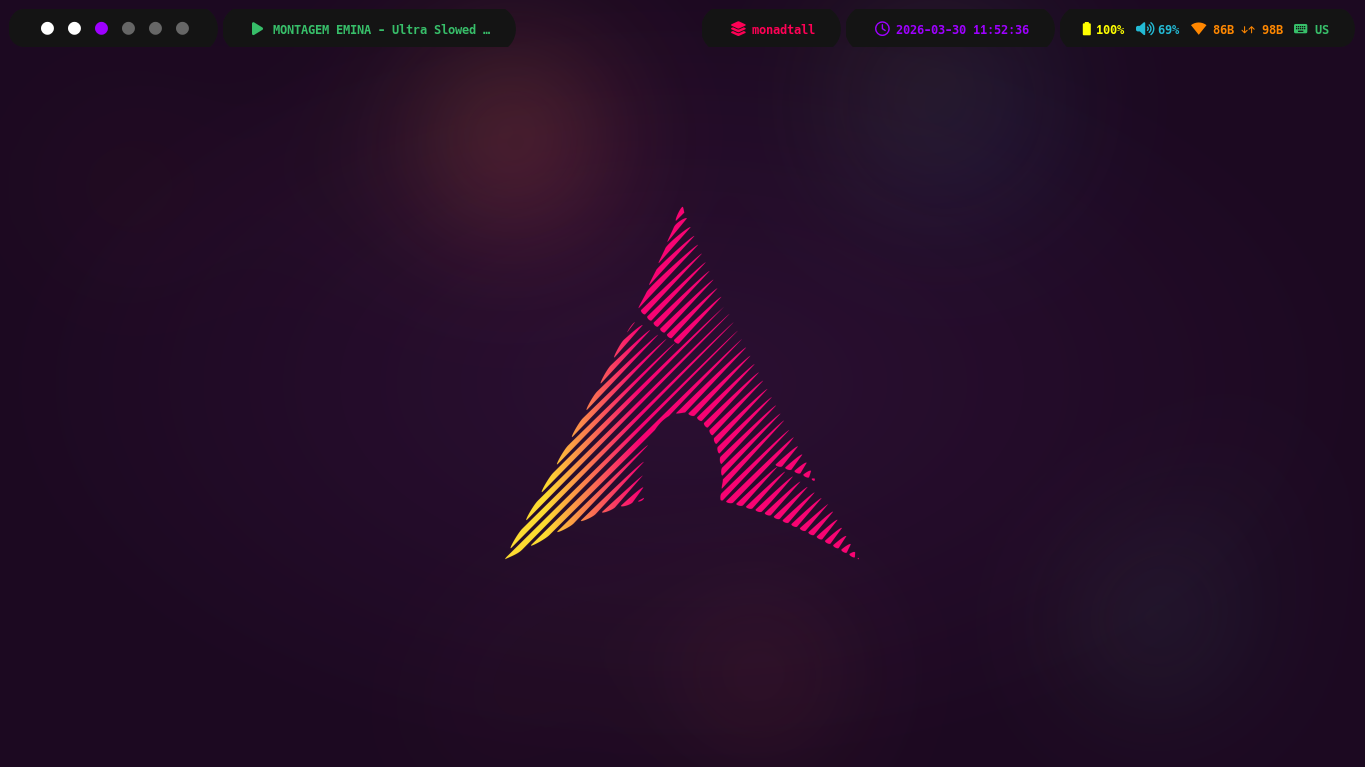
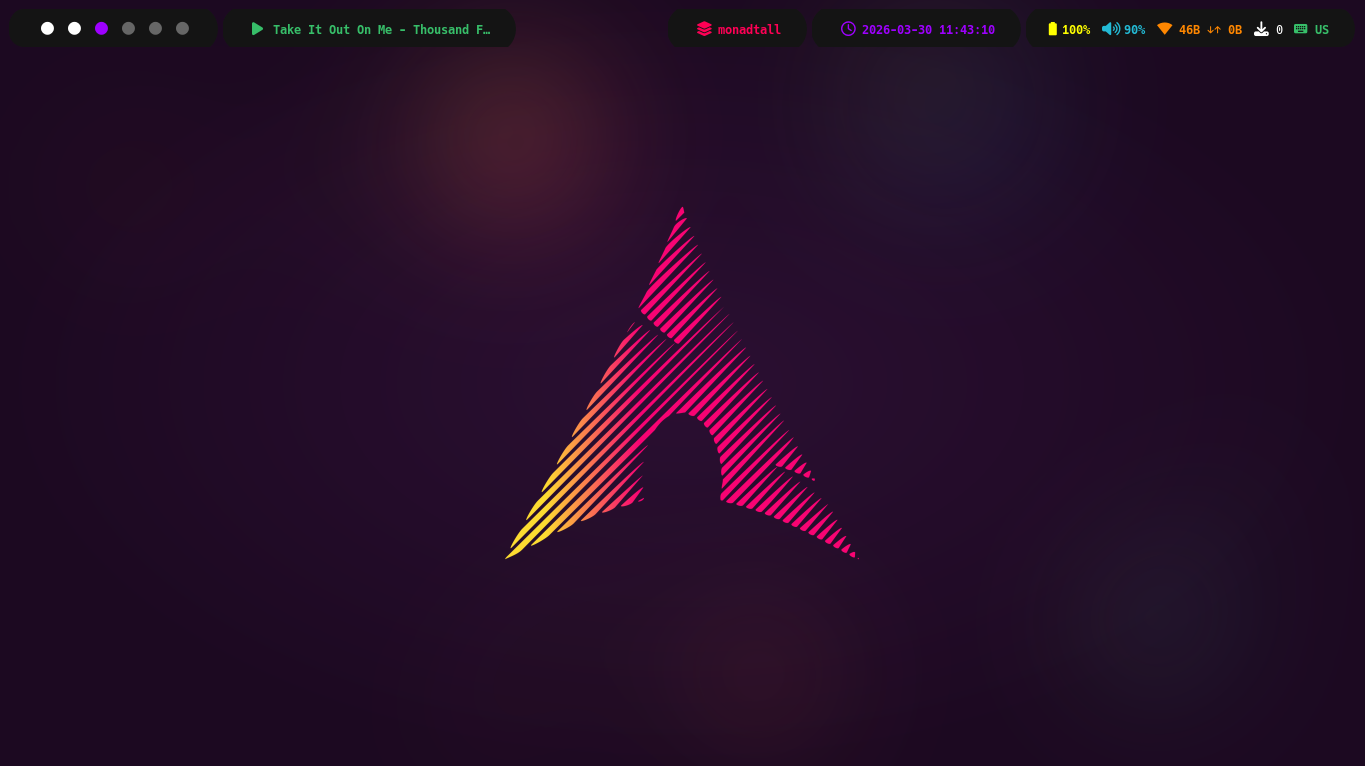
Add checkupdates widget

diff --git a/.config/qtile/config.py b/.config/qtile/config.py
@@ -260,6 +260,17 @@ def baseWidgets():
             background=colors['bg'],
             foreground=colors['orange'],
         ),
+        icon(txt='', fg=colors['fg'], p=9),
+        widget.CheckUpdates(
+            background=colors['bg'],
+            colour_have_updates=colors['fg'],
+            colour_no_updates=colors['fg'],
+            no_update_string='0',
+            display_format='{updates}',
+            update_interval=1800,
+            custom_command='checkupdates',
+            font='Hack Nerd Font Mono'
+        ),
         icon(txt='', fg=colors["green"]),
         widget.KeyboardLayout(
             background=colors['bg'],
